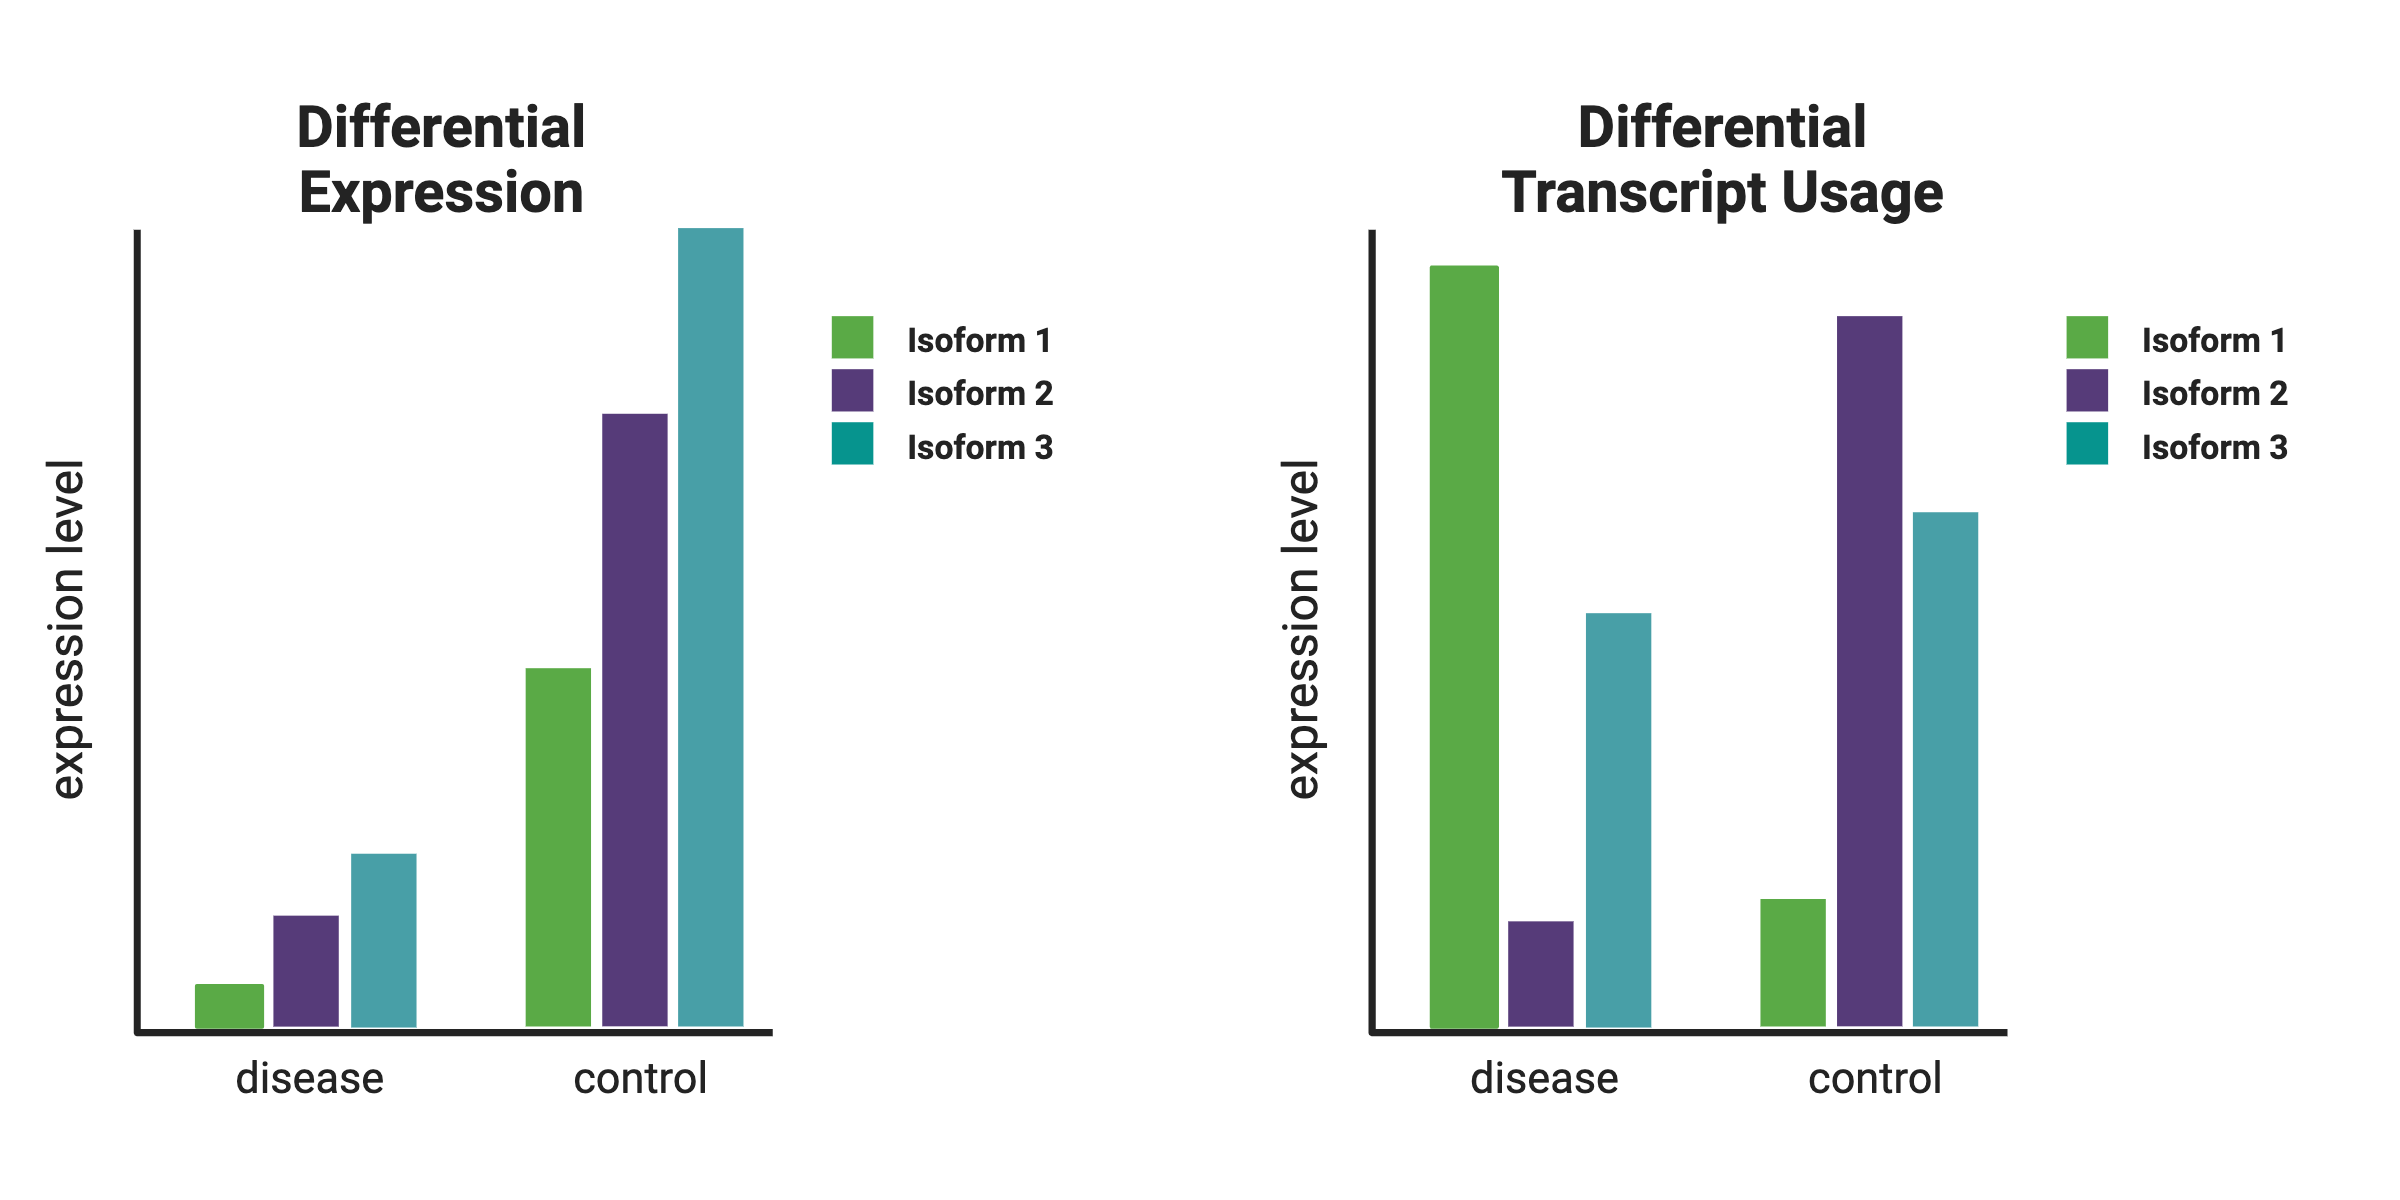
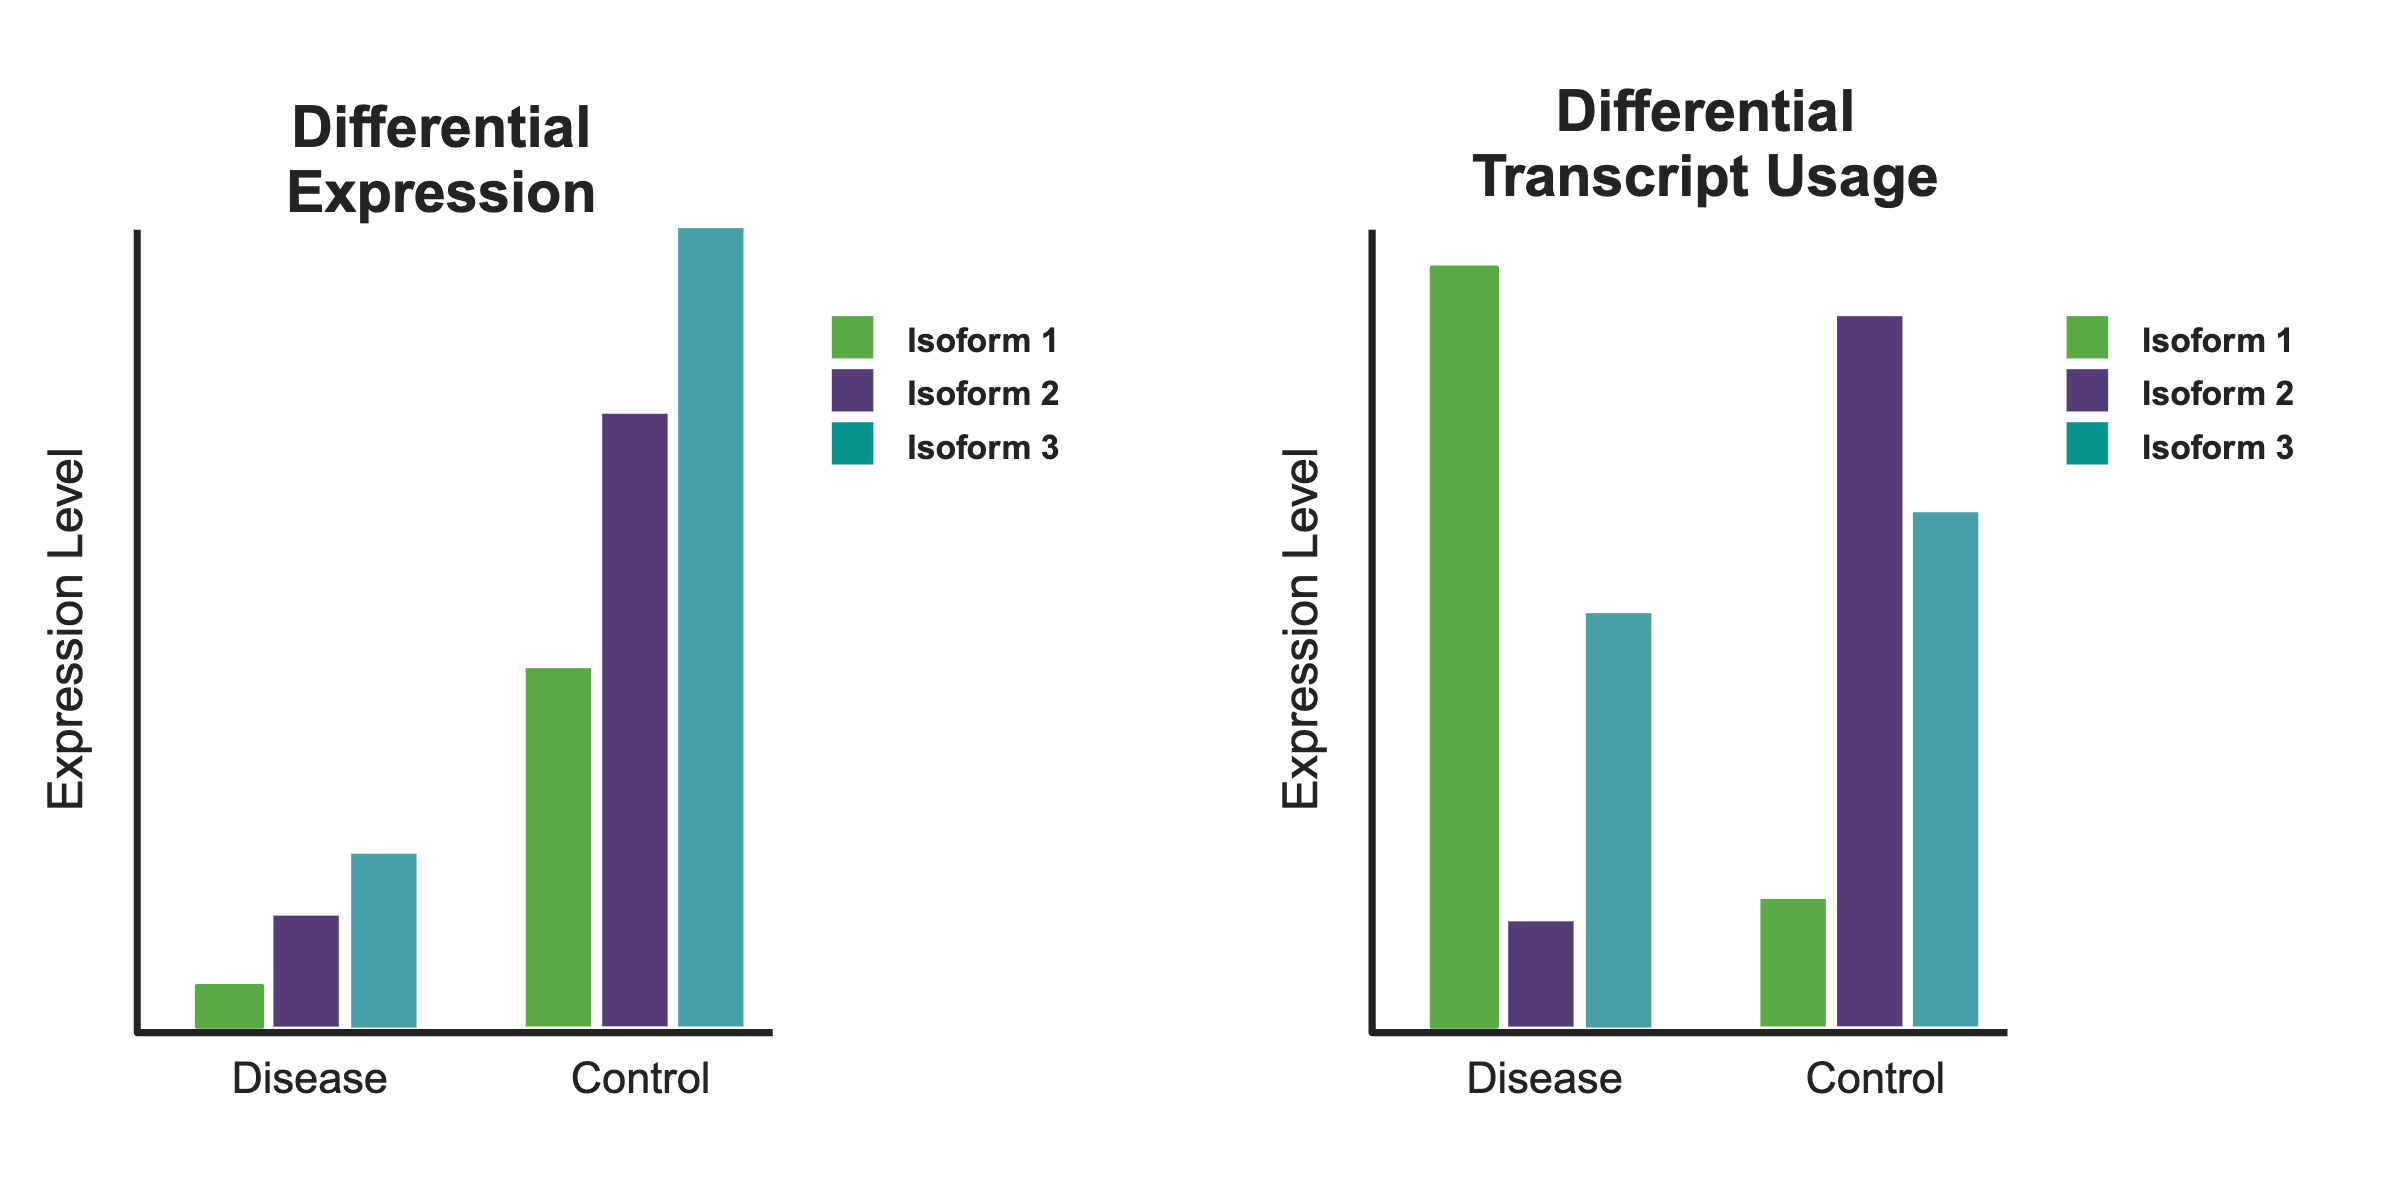
update shiny app and readme

diff --git a/src/shiny_app/www/style.css b/src/shiny_app/www/style.css
@@ -5,39 +5,39 @@
 @import url('https://fonts.googleapis.com/css2?family=Roboto&display=swap');
 
 * {
-  font-family: 'Roboto', sans-serif;
+  font-family: 'Arial', sans-serif;
 }
 
 h1{
-  font-family: 'Roboto', sans-serif;
+  font-family: 'Arial', sans-serif;
   font-size: 4em;
 }
 
 h2{
-  font-family: 'Roboto', sans-serif;
+  font-family: 'Arial', sans-serif;
   font-size: 3em;
   text-align: center;
 }
 
 h3{
-  font-family: 'Roboto', sans-serif;
+  font-family: 'Arial', sans-serif;
   font-size: 2.8em;
   text-align: center;
 }
 
 h4{
-  font-family: 'Roboto', sans-serif;
+  font-family: 'Arial', sans-serif;
   font-size: 2em;
 }
 
 .welcome-about-p {
-  font-family: 'Roboto', sans-serif;
+  font-family: 'Arial', sans-serif;
   padding: 2vw 2vw 2vw 2vw;
   font-size: 1.3em;
 }
 
 .branding {
-  font-family: 'Roboto', sans-serif;
+  font-family: 'Arial', sans-serif;
   font-size: .8em;
   text-align: center;
 }

diff --git a/README.md b/README.md
@@ -1,17 +1,7 @@
-README
+Nanopore long-read RNA sequencing shows region-specific sex differences
+in wild-type mouse brain mRNA isoform expression and usage
 ================
-2023-10-24
-
-# Nanopore long-read RNA sequencing shows region-specific sex differences in wild-type mouse brain mRNA isoform expression and usage
-
-Preprint DOI  
-Docker DOI  
-Zenodo DOI  
-GEO
-
-You can also visit our Shiny Application that accompanies this analysis:
-
-<https://lasseignelab.shinyapps.io/mouse_brain_iso_div/>
+2023-11-15
 
 ## Authors
 
@@ -27,16 +17,19 @@ The purpose of this project is to analyze Oxford Nanopore RNA sequencing
 from four wild-type mouse brain regions balanced for sex, to assay
 isoform usage and expression differences across brain region and sex.
 
-<figure>
-<img
-src="https://github.com/lasseignelab/230227_EJ_MouseBrainIsoDiv/blob/main/src/shiny_app/www/graphical_abstract.png"
-alt="We extracted RNA from 40 samples, four brain regions each from 10 mice balanced for sex with and sequenced on an ONT GridION. We processed this data with the nf-core nanoseq pipeline and used DESeq2, IsoformSwitchAnalyzeR, and custom scripts for downstream analyses" />
-<figcaption aria-hidden="true">We extracted RNA from 40 samples, four
-brain regions each from 10 mice balanced for sex with and sequenced on
-an ONT GridION. We processed this data with the nf-core nanoseq pipeline
-and used DESeq2, IsoformSwitchAnalyzeR, and custom scripts for
-downstream analyses</figcaption>
-</figure>
+![We extracted RNA from 40 samples, four brain regions each from 10 mice
+balanced for sex with and sequenced on an ONT GridION. We processed this
+data with the nf-core nanoseq pipeline and used DESeq2,
+IsoformSwitchAnalyzeR, and custom scripts for downstream
+analyses](https://github.com/lasseignelab/230227_EJ_MouseBrainIsoDiv/blob/main/src/shiny_app/www/graphical_abstract.png)
+Preprint DOI  
+Docker DOI  
+Zenodo DOI  
+<https://www.ncbi.nlm.nih.gov/geo/query/acc.cgi?&acc=GSE246705>
+
+You can also visit our Shiny Application that accompanies this analysis:
+
+<https://lasseignelab.shinyapps.io/mouse_brain_iso_div/>
 
 ## Scripts
 
@@ -47,8 +40,6 @@ downstream analyses</figcaption>
     ## ├── 02_get_genome_annotations.sh
     ## ├── 03_create_isoform_fa.sh
     ## ├── 16_dataset_overview_figure.Rmd
-    ## ├── 20010631.c0158.err.txt
-    ## ├── 20010631.c0158.out.txt
     ## └── README
 
 ***Script 00: preprocessing/00_run_nanoseq.sh*** - This script can be
@@ -218,6 +209,13 @@ to work.
     ## │   ├── region_all_list_orf_de_pfam.Rds
     ## │   ├── region_region_orf_de_pfam.Rds
     ## │   └── region_sex_list_orf_de_pfam.Rds
+    ## ├── data
+    ## │   ├── combined_cpm.Rds
+    ## │   └── sample_collection_metadata.Rds
+    ## ├── rsconnect
+    ## │   └── shinyapps.io
+    ## │       └── lasseignelab
+    ## │           └── mouse_brain_iso_div.dcf
     ## ├── server.R
     ## ├── ui.R
     ## └── www
@@ -273,8 +271,11 @@ UAB Lab Startup funds (PI: Lasseigne)
 ## Acknowledgements
 
 We acknowledge all current and past members of the Lasseigne Lab for
-their thoughtful feedback, especially Vishal H. Oza, Tabea M. Soelter,
-and Elizabeth J. Wilk.
+their thoughtful feedback, especially Tabea M. Soelter, Jordan H.
+Whitlock, Vishal H. Oza, and Elizabeth J. Wilk. We would like to thank
+the UAB Biological Data Sciences (UAB-BDS) core for its expertise,
+institutional support, and maintenance of the nf-core nanoseq pipeline
+and docker/singularity container documentation.
 
 ## License
 
